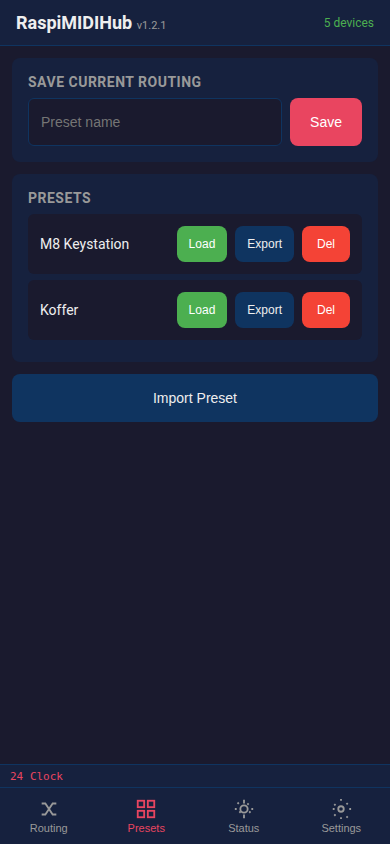
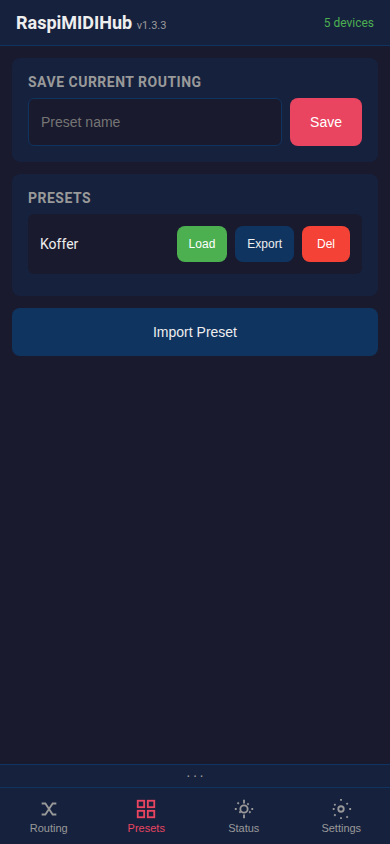
Update screenshots and docs for v1.3.3
- Regenerated all 6 screenshots in mobile view (390x844)
- Updated CHANGELOG with v1.3.2 and v1.3.3 entries
- Updated README: offline connections, clock indicator, port renaming,
  config export/import, right-click for filter panel
- Updated UI Guide: clock indicator, offline connections, port rename,
  MIDI bar auto-expire, config export/import
- Fixed manual install version numbers in README

diff --git a/docs/UI_GUIDE.md b/docs/UI_GUIDE.md
@@ -6,9 +6,15 @@ This guide walks through every screen of the RaspiMIDIHub web interface.
 
 ## Routing Page
 
-The main screen shows the **connection matrix** — a grid where rows are MIDI sources (FROM) and columns are destinations (TO). Tap a cell to connect or disconnect two devices. Purple cells indicate connections with active filters or mappings. Offline devices (saved but unplugged) appear grayed out.
+The main screen shows the **connection matrix** — a grid where rows are MIDI sources (FROM) and columns are destinations (TO). Tap a cell to connect or disconnect two devices. Purple cells indicate connections with active filters or mappings.
 
-At the bottom: **Save Config** persists the current routing to disk (survives reboots), **Load Config** reloads the last saved state. Disconnected connections are also saved and restored.
+**Offline devices** (saved but unplugged) appear grayed out with their saved connections shown as dimmed checkboxes. You can toggle offline connections on/off — the settings are stored and applied when the device is plugged back in.
+
+A pulsing **▶ play icon** appears next to devices sending MIDI clock. If multiple devices send clock simultaneously (a common misconfiguration), the icon turns orange as a warning.
+
+Tap a device label to see its full name in a toast. Renamed devices also show the original ALSA name in gray.
+
+At the bottom: **Save Config** persists the current routing to disk (survives reboots), **Load Config** reloads the last saved state. **Export Config** / **Import Config** let you back up or transfer the full configuration as JSON. Disconnected connections are also saved and restored.
 
 ![Routing Page](screenshots/01-routing.png)
 
@@ -22,7 +28,9 @@ Long-press (or right-click) a connected cell to open the connection panel. Here 
 - **Message Types:** Enable/disable notes, CCs, program changes, pitch bend, aftertouch, SysEx, and clock/realtime. Changes apply instantly.
 - **Mappings:** View active mappings with Edit/Delete buttons. Tap **+ Add Mapping** to create a new one.
 
-Dismiss the panel by swiping down, tapping X, pressing ESC, or tapping the dark overlay. Toggling a connection off in the matrix preserves its filters and mappings — they are restored when you re-enable it.
+Dismiss the panel by swiping down, tapping X, pressing ESC, or tapping the dark overlay.
+
+Toggling a connection off in the matrix preserves its filters and mappings — they are restored when you re-enable it.
 
 ![Filter & Mapping Panel](screenshots/05-filter-panel.png)
 
@@ -76,9 +84,10 @@ System overview and device list.
 Tap a device on the Status page to open the detail panel (slides up). Features:
 
 - **Device info:** ALSA client ID, USB VID:PID, port types
-- **Rename:** Assign a custom name that persists across reboots (stored by USB topology)
-- **MIDI Monitor:** Live display of incoming MIDI events with note names (e.g., "Note On ch1 C3 vel=100")
-- **MIDI Test Sender:** Piano keyboard (one octave, adjustable with +/- octave buttons) and CC slider for testing connections without physical MIDI input
+- **Rename:** Assign a custom device name that persists across reboots (stored by USB topology)
+- **Port rename:** For multi-port devices, rename individual ports (e.g., name a DIN output "Octatrack")
+- **MIDI Monitor:** Live display of incoming MIDI events with note names (e.g., "Note On ch1 C3 vel=100"). Uses direct DOM updates so it won't interfere with other controls.
+- **MIDI Test Sender:** Select channel and port, then use the piano keyboard (one octave, adjustable with +/- octave buttons) and CC slider for testing connections without physical MIDI input
 
 ![Device Detail Panel](screenshots/06-device-detail.png)
 
@@ -103,7 +112,7 @@ Configuration and system controls.
 
 ## MIDI Activity Bar
 
-A persistent bar above the bottom navigation showing the latest MIDI events from two sources — left and right. Device names are truncated to fit. Toggleable in Settings > Display.
+A persistent bar above the bottom navigation showing the latest MIDI events from two sources — left and right. Device names are truncated to fit. Clock events are not shown here (they appear as the ▶ indicator in the matrix instead). Entries auto-expire after 2 seconds of inactivity. Toggleable in Settings > Display.
 
 ---
 

diff --git a/README.md b/README.md
@@ -40,9 +40,11 @@ See the full [UI Guide](docs/UI_GUIDE.md) for all screens.
 - **Built-in WiFi access point:** The Pi creates its own WiFi network (`RaspiMIDIHub-XXXX`)
 - **Captive portal:** Connect from your phone and the config page opens automatically
 - **Mobile-first design:** Touch-friendly interface designed for phones on stage
-- **Connection matrix:** Tap to connect/disconnect, long-press for filters and mappings
+- **Connection matrix:** Tap to connect/disconnect, long-press (or right-click) for filters and mappings
+- **Clock indicator:** Pulsing play icon on devices sending MIDI clock — turns orange when multiple sources detected
+- **Offline connections:** Configure routing for unplugged devices — connections shown grayed out in matrix
 - **Presets:** Save and recall routing configurations for different songs or shows
-- **MIDI activity bar:** Persistent live MIDI event display (toggleable)
+- **MIDI activity bar:** Persistent live MIDI event display with auto-expire (toggleable)
 - **MIDI monitor:** Per-device real-time event log with note names
 - **MIDI test sender:** Piano keyboard and CC slider for testing connections
 - **Client mode:** Join an existing WiFi network. Reachable at `http://raspimidihub.local`
@@ -67,8 +69,10 @@ See the full [UI Guide](docs/UI_GUIDE.md) for all screens.
 
 ### Device Management
 - **Device renaming:** Assign custom names that persist across reboots
+- **Port renaming:** Rename individual ports on multi-port devices (e.g., name a DIN output after the synth connected to it)
 - **Stable identification:** Devices are tracked by USB topology path + VID:PID, not volatile ALSA client IDs
 - **Device detail panel:** View device info, monitor MIDI, send test events
+- **Config export/import:** Export full configuration as JSON, import on another Pi
 
 ### Easy Installation
 - **Single package install:** Download one `.deb` file, install, reboot — done
@@ -101,9 +105,9 @@ sudo reboot
 <summary>Manual installation</summary>
 
 ```bash
-wget https://github.com/wamdam/raspimidihub/releases/latest/download/raspimidihub_1.3.0-1_all.deb
+wget https://github.com/wamdam/raspimidihub/releases/latest/download/raspimidihub_1.3.3-1_all.deb
 wget https://github.com/wamdam/raspimidihub/releases/latest/download/raspimidihub-rosetup_1.0.0-1_all.deb
-sudo apt install ./raspimidihub_1.3.0-1_all.deb ./raspimidihub-rosetup_1.0.0-1_all.deb
+sudo apt install ./raspimidihub_1.3.3-1_all.deb ./raspimidihub-rosetup_1.0.0-1_all.deb
 sudo reboot
 ```
 </details>
@@ -115,7 +119,7 @@ After reboot, the Pi runs with a read-only filesystem and all connected MIDI dev
 1. On your phone, go to WiFi settings
 2. Connect to `RaspiMIDIHub-XXXX` (default password: `midihub1`)
 3. The configuration page opens automatically (captive portal)
-4. Tap the connection matrix to route devices, long-press for filters and mappings
+4. Tap the connection matrix to route devices, long-press (or right-click) for filters and mappings
 5. Hit **Save Config** to persist across reboots
 
 ### Client WiFi Mode
@@ -156,7 +160,7 @@ All devices talk to each other. Pull the power after the gig — next time it wo
 
 1. Connect your phone to the Pi's WiFi
 2. Tap connections in the matrix to enable/disable routes
-3. Long-press a connection for channel filters or MIDI mappings
+3. Long-press (or right-click) a connection for channel filters or MIDI mappings
 4. Save Config to persist
 
 ### MIDI Mapping Example

diff --git a/docs/CHANGELOG.md b/docs/CHANGELOG.md
@@ -4,6 +4,30 @@ All notable changes to RaspiMIDIHub will be documented in this file.
 
 The format is based on [Keep a Changelog](https://keepachangelog.com/).
 
+## [1.3.3] - 2026-04-07
+
+### Fixed
+- Gateway not applied for static IP: uses separate `gateway=` key in NetworkManager
+  config and brings connection down/up to force reapplication.
+
+## [1.3.2] - 2026-04-07
+
+### Added
+- **Offline connections**: saved connections for offline devices shown as grayed-out
+  checkboxes in the matrix — can be toggled on/off even while the device is unplugged.
+- **Clock indicator**: pulsing play icon (▶) on FROM devices sending MIDI clock.
+  Turns orange when multiple devices send clock simultaneously (common mistake).
+- **MIDI bar auto-expire**: bottom bar entries vanish after 2 seconds of inactivity.
+- **Toast shows original name**: tapping a renamed device in the matrix shows the
+  custom name plus the original ALSA name in gray.
+
+### Changed
+- Clock events filtered from bottom MIDI bar (shown only as matrix indicator).
+- Device detail panel: MIDI monitor uses direct DOM updates to prevent
+  channel/port dropdown flickering from rapid MIDI events.
+- Rename save button: small inline style, hidden after saving (device and port).
+- Custom port names no longer truncated in matrix labels.
+
 ## [1.3.1] - 2026-04-06
 
 ### Fixed
